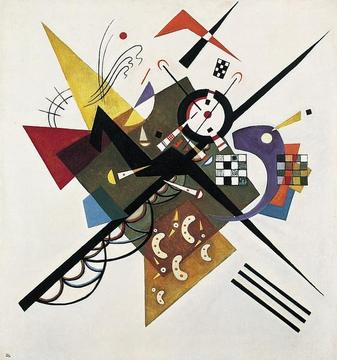
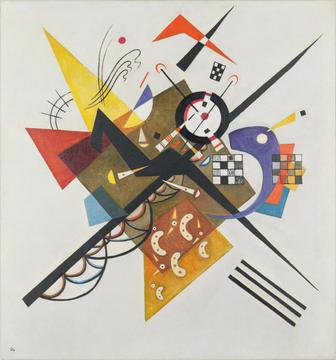
v9: Kandinsky (Sobre blanco II) a alta resolución
Claude-Session: https://claude.ai/code/session_01XpiM7wuyXrBDYPyjUTmJV8

diff --git a/sw.js b/sw.js
@@ -1,6 +1,6 @@
 // Funciona sin conexión: guarda la página, los datos y las imágenes.
 // Cambia VERSION cada vez que se actualicen los datos (data/*.js) o la web.
-const VERSION = "historia-arte-v8";
+const VERSION = "historia-arte-v9";
 const CORE = ["./", "index.html", "css/style.css", "js/core.js", "js/semblanzas.js", "js/glosario.js", "js/start.js", "data/semblanzas.js", "data/glosario.js", "data/obras.js", "fonts/fraunces-latin-wght-normal.woff2", "fonts/fraunces-latin-wght-italic.woff2", "fonts/inter-latin-standard-normal.woff2", "fonts/spectral-latin-400-normal.woff2", "fonts/spectral-latin-600-normal.woff2", "fonts/spectral-latin-400-italic.woff2", "manifest.webmanifest", "icon-192.png", "icon-512.png"];
 
 self.addEventListener("install", (e) => {

diff --git a/index.html b/index.html
@@ -236,7 +236,7 @@
       <article><h3>Privacidad</h3>
         <p>Sin cookies ni datos personales. Tu progreso se guarda solo en tu navegador. Estadísticas de visitas anónimas (GoatCounter) y tipografías alojadas en esta misma web.</p></article>
     </div>
-    <p class="stats">Tipografías Fraunces, Inter y Spectral (SIL OFL) · Versión 8 · noviembre de 2026</p>
+    <p class="stats">Tipografías Fraunces, Inter y Spectral (SIL OFL) · Versión 9 · noviembre de 2026</p>
   </section>
 
 </main>
